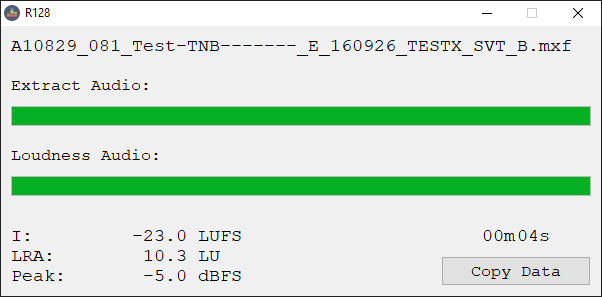
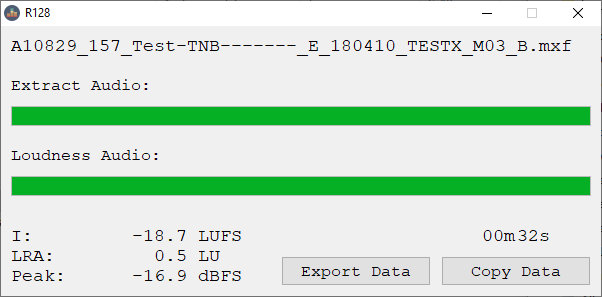
feat: introduce data export function
Measured data often needed later. So these data should exported as text
file to %temp%.

 - new button 'Export Data'
 - adjust label for measurement data which is to wide

diff --git a/README.md b/README.md
@@ -13,7 +13,7 @@ If there are more then one stereo or two mono tracks you get a popup to choose t
 
 The choosen tracks are first extracted to `%temp%` in 24bit and 48kHz.
 Progress is shown in the gui.
-Then it measures this wave file. If ready you can copy the result to the clipboard.
+Then it measures this wave file. If ready you can copy the result to the clipboard or export the data as text file to `%temp%`.
 
 ![GUI](./images/gui.png)
 
